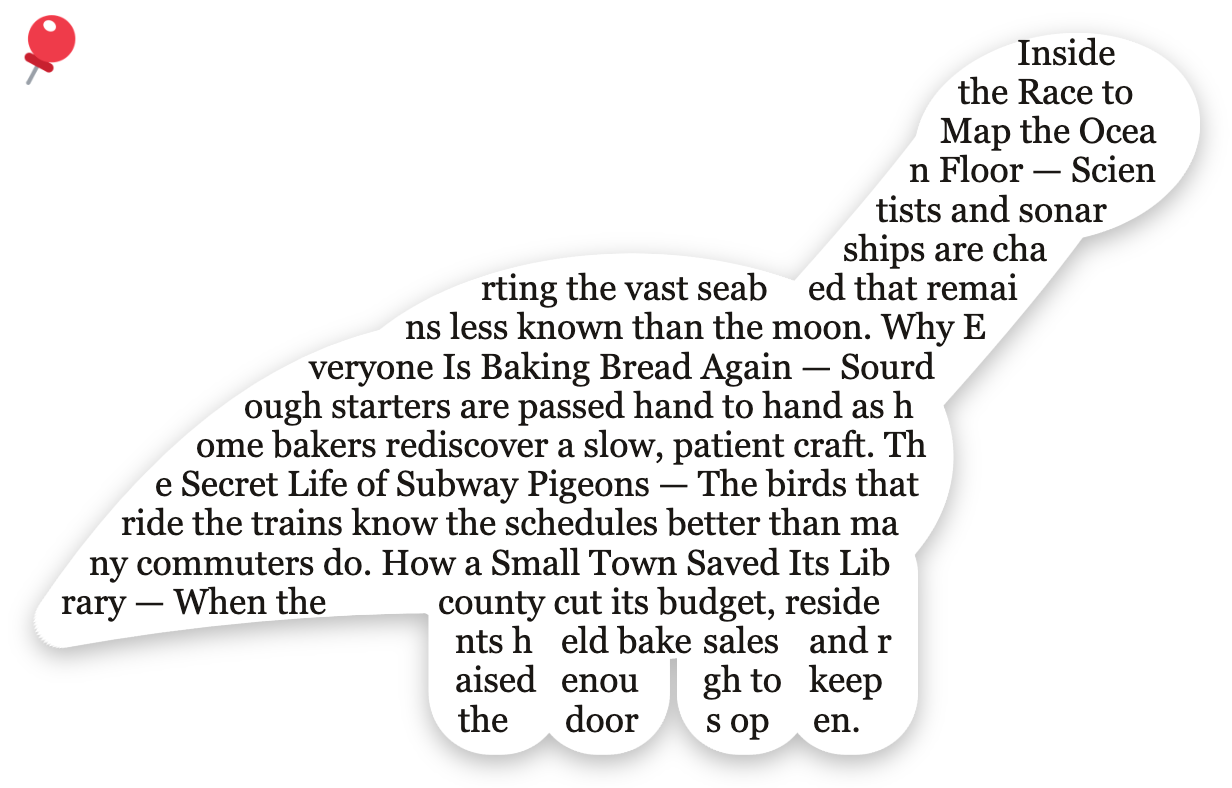
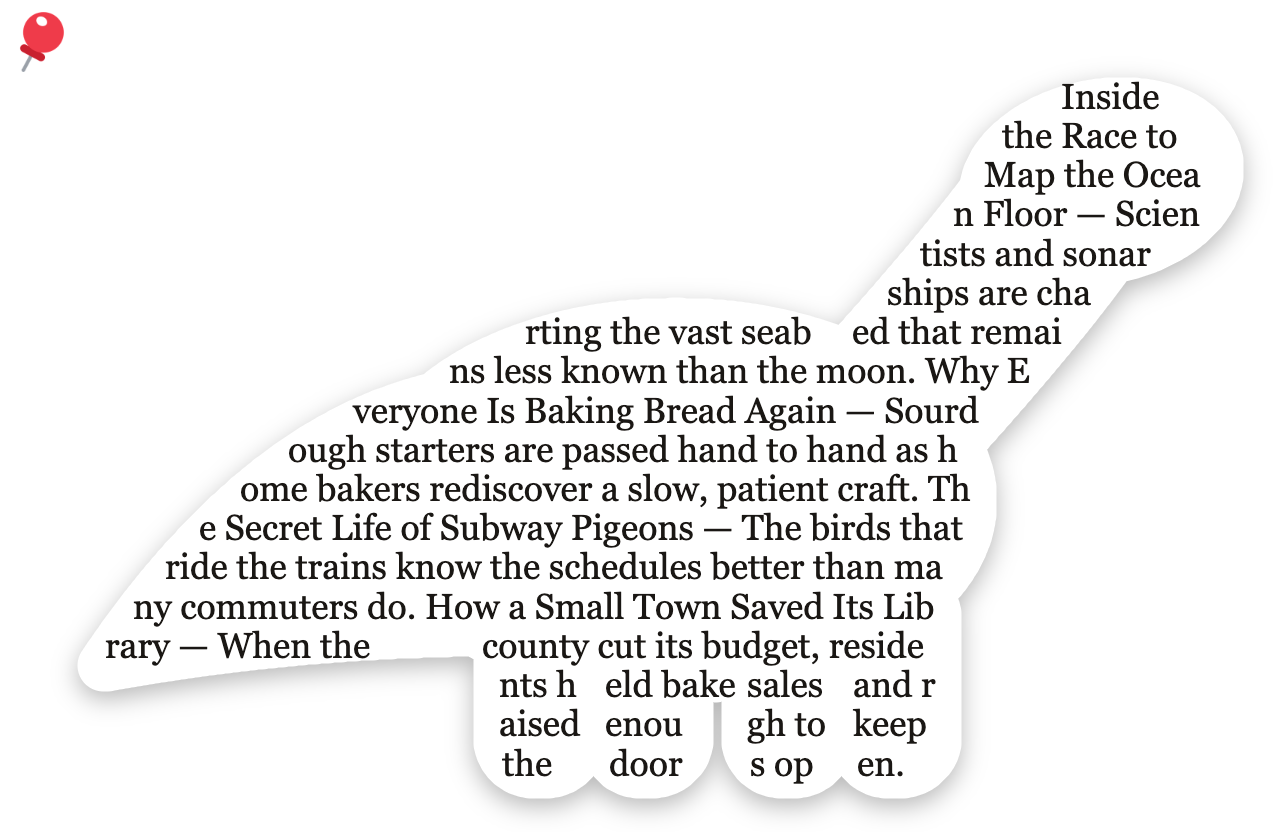
Sticker die-cut: border by true distance with a soft edge (no comb-like ridges on thin tips); the pin gets its own corner clear of the words

Changed region(s): [[0.0308, 0.0305, 0.987, 0.9746], [0.0, 0.0, 0.0617, 0.0914]]

diff --git a/src/pushpin/cards.py b/src/pushpin/cards.py
@@ -729,6 +729,26 @@ let pinImage = null;
 const pinIcon = () => pinImage ??= new Promise(ok => {
   const im = new Image(); im.onload = () => ok(im); im.onerror = () => ok(null); im.src = '/icon.png';
 });
+// Squared distance from every pixel to the nearest pixel of the shape (alpha over half), w x h: the
+// exact Euclidean distance transform, one dimension at a time (Felzenszwalb and Huttenlocher).
+function distances(rgba, w, h) {
+  const INF = 1e20, d = new Float64Array(w * h);
+  for (let i = 0; i < w * h; i++) d[i] = rgba[4 * i + 3] > 127 ? 0 : INF;
+  const n = Math.max(w, h), f = new Float64Array(n), out = new Float64Array(n), v = new Int32Array(n), z = new Float64Array(n + 1);
+  const pass = len => {  // the lower envelope of parabolas over f[0..len)
+    let k = 0; v[0] = 0; z[0] = -INF; z[1] = INF;
+    for (let q = 1; q < len; q++) {
+      let s = ((f[q] + q * q) - (f[v[k]] + v[k] * v[k])) / (2 * q - 2 * v[k]);
+      while (s <= z[k]) { k--; s = ((f[q] + q * q) - (f[v[k]] + v[k] * v[k])) / (2 * q - 2 * v[k]); }
+      k++; v[k] = q; z[k] = s; z[k + 1] = INF;
+    }
+    k = 0;
+    for (let q = 0; q < len; q++) { while (z[k + 1] < q) k++; out[q] = (q - v[k]) * (q - v[k]) + f[v[k]]; }
+  };
+  for (let x = 0; x < w; x++) { for (let y = 0; y < h; y++) f[y] = d[y * w + x]; pass(h); for (let y = 0; y < h; y++) d[y * w + x] = out[y]; }
+  for (let y = 0; y < h; y++) { for (let x = 0; x < w; x++) f[x] = d[y * w + x]; pass(w); for (let x = 0; x < w; x++) d[y * w + x] = out[x]; }
+  return d;
+}
 async function sticker(day, kind, built = 1) {  // an unfinished day: just the part revealed so far
   const W = 1200, H = 768, {inside: shape, edge} = revealed(silhouette(W, H, day.flip, kind), W, H, built, day.flip);
   const {glyphs, fs} = fitted(W, H, day.text, shape, Math.round(W / 4));
@@ -736,23 +756,30 @@ async function sticker(day, kind, built = 1) {  // an unfinished day: just the p
   for (let y = 0; y < H; y += 2) for (let x = 0; x < W; x += 2) if (shape(x, y)) {
     x0 = Math.min(x0, x); x1 = Math.max(x1, x); y0 = Math.min(y0, y); y1 = Math.max(y1, y);
   }
-  const B = 26, P = B + 34, ox = P - x0, oy = P - y0;  // border, then room for the shadow
-  const out = document.createElement('canvas'); out.width = x1 - x0 + 2 * P; out.height = y1 - y0 + 2 * P;
+  // border, room for the shadow, and the pin's own corner (top left), clear of the words
+  const B = 26, P = B + 34, PIN = 72, room = 44, ox = P + room - x0, oy = P + room - y0;
+  const out = document.createElement('canvas'); out.width = x1 - x0 + 2 * P + room; out.height = y1 - y0 + 2 * P + room;
   const mask = document.createElement('canvas'); mask.width = W; mask.height = H;
   const mc = mask.getContext('2d'); dino(mc, W, H, day.flip, kind, true);  // traced around the solid shape
   if (edge !== null) day.flip ? mc.clearRect(0, 0, edge, H) : mc.clearRect(edge, 0, W - edge, H);
   const cut = document.createElement('canvas'); cut.width = out.width; cut.height = out.height;
   const cc = cut.getContext('2d');
-  for (let a = 0; a < 48; a++) cc.drawImage(mask, ox + B * Math.cos(a * Math.PI / 24), oy + B * Math.sin(a * Math.PI / 24));
+  // the border: every pixel within B of the shape, by true distance, with a soft edge, so thin
+  // tips get a smooth, even border instead of the ridges of stamped copies
   cc.drawImage(mask, ox, oy);
-  cc.globalCompositeOperation = 'source-in'; cc.fillStyle = '#fff'; cc.fillRect(0, 0, cut.width, cut.height);
+  const px = cc.getImageData(0, 0, cut.width, cut.height), d = distances(px.data, cut.width, cut.height);
+  for (let i = 0; i < d.length; i++) {
+    const a = Math.max(0, Math.min(1, B + 0.5 - Math.sqrt(d[i])));
+    px.data[4 * i] = px.data[4 * i + 1] = px.data[4 * i + 2] = 255; px.data[4 * i + 3] = Math.round(255 * a);
+  }
+  cc.putImageData(px, 0, 0);
   const c = out.getContext('2d');
   c.shadowColor = 'rgba(0,0,0,.28)'; c.shadowBlur = 24; c.shadowOffsetY = 8; c.drawImage(cut, 0, 0);
   c.shadowColor = 'transparent';
   c.font = fs + 'px Georgia, "Times New Roman", serif'; c.textBaseline = 'middle'; c.fillStyle = STICKER_INK;
   for (const g of glyphs) c.fillText(g[0], ox + g[1], oy + g[2]);
   const im = await pinIcon();
-  if (im) c.drawImage(im, 8, 8, 84, 84);
+  if (im) c.drawImage(im, 6, 6, PIN, PIN);
   return out;
 }
 let sheet = null;
